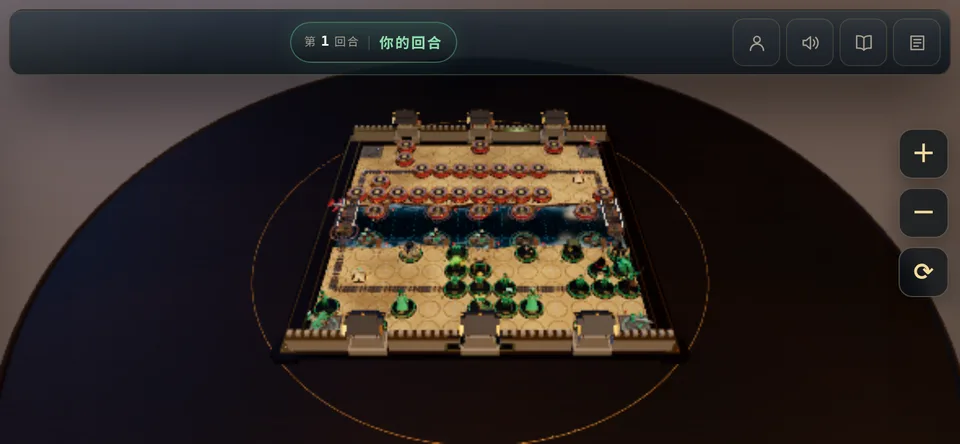
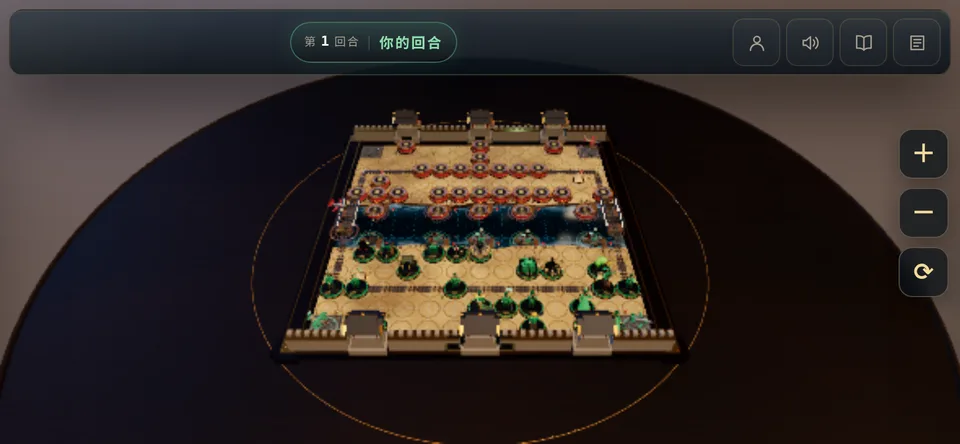
fix(mobile): 鏡頭工具列選棋時自動收起（保持棋盤最大化與點擊不被遮擋）

diff --git a/src/main.js b/src/main.js
@@ -291,6 +291,7 @@ function selectDeployPiece(pieceKey) {
   if (!piece) return;
   app.selectedDeployKey = pieceKey;
   app.view.setSelected(`${PLAYER_SIDE}:${pieceKey}`);
+  updateMobileTools(false);
   if (typeof app.view.setDeployMode === 'function') {
     app.view.setDeployMode(true, {
       side: PLAYER_SIDE,
@@ -371,6 +372,7 @@ function onNodePickDuringSetup(nodeId) {
   app.playerPlacements.push({ pieceKey, nodeId });
   app.selectedDeployKey = null;
   app.view.setSelected(null);
+  updateMobileTools();
   syncDeployView();
   refreshDeployPanel();
 
@@ -390,6 +392,7 @@ function autoDeployPlayer() {
   app.playerPlacements = placements.map((p) => ({ ...p }));
   app.selectedDeployKey = null;
   app.view.setSelected(null);
+  updateMobileTools();
   syncDeployView();
   refreshDeployPanel();
   toast('已自動佈陣，可直接開始戰鬥，或點棋子調整。', 'ok');
@@ -556,6 +559,7 @@ function computePublicInfo(view) {
 function waitForPlayerAction(token) {
   refreshGameView();
   app.selectedUid = null;
+  updateMobileTools();
   app.view.setInteractive(true);
   app.view.clearHighlights();
   app.view.setSelected(null);
@@ -588,6 +592,7 @@ function onPiecePick(uid) {
   if (!piece.alive) { clearSelection(); return; }
   app.selectedUid = uid;
   app.view.setSelected(uid);
+  updateMobileTools(false);
   const actions = (app.game.getActionsForPiece && app.game.getActionsForPiece(PLAYER_SIDE, uid)) || [];
   // 若引擎沒提供 getActionsForPiece，退回 getLegalActions 過濾
   const list = actions.length ? actions : (app.game.getLegalActions(PLAYER_SIDE) || []).filter((a) => a.pieceUid === uid);
@@ -625,6 +630,7 @@ function clearSelection() {
   app.selectedUid = null;
   app.view.setSelected(null);
   app.view.clearHighlights();
+  updateMobileTools();
   if (app.ui && typeof app.ui.setSelectedPiece === 'function') app.ui.setSelectedPiece(null);
 }
 
@@ -677,6 +683,7 @@ async function performPlayerAction(action) {
     toast('行動執行錯誤，請重試。', 'error');
   } finally {
     app.busy = false;
+    updateMobileTools();
     if (resolve) resolve();
   }
 }
@@ -967,14 +974,21 @@ function setupMobileTools() {
   app.mobileTools = wrap;
 }
 
+/** 是否正處於「已選棋、等待點棋盤」狀態（此時收起浮動工具列避免遮擋） */
+function isAwaitingBoardTap() {
+  if (app.phase === 'setup') return !!app.selectedDeployKey;
+  if (app.phase === 'play') return !!app.selectedUid;
+  return false;
+}
+
 function updateMobileTools(show) {
   const el = app.mobileTools || document.getElementById('mobile-tools');
   if (!el) return;
   let visible;
   if (show === undefined) {
-    visible = app.isCoarse && !app.modalOpen && (app.phase === 'setup' || app.phase === 'play');
+    visible = app.isCoarse && !app.modalOpen && (app.phase === 'setup' || app.phase === 'play') && !isAwaitingBoardTap();
   } else {
-    visible = !!show && app.isCoarse;
+    visible = !!show && app.isCoarse && !isAwaitingBoardTap();
   }
   el.classList.toggle('is-visible', visible);
   scheduleInsets(140);
@@ -1015,11 +1029,8 @@ function computeInsets() {
   const H = window.innerHeight || 600;
   let top = 6;
   let bottom = 6;
-  let left = 6;
-  let right = 6;
-  // 右側浮動鏡頭工具（44px 寬 + 安全距）不可覆蓋棋盤，否則會吃掉點擊
-  const toolsEl = app.mobileTools || document.getElementById('mobile-tools');
-  if (toolsEl && toolsEl.classList.contains('is-visible')) right = Math.max(right, 58);
+  const left = 6;
+  const right = 6;
   if (app.phase === 'setup') {
     const tray = document.querySelector('.setup__tray');
     if (tray) {
@@ -1123,7 +1134,7 @@ function escapeHtml(s) {
 function bindGlobalKeys() {
   window.addEventListener('keydown', (e) => {
     if (e.key === 'Escape') {
-      if (app.phase === 'setup') { app.selectedDeployKey = null; app.view.clearHighlights(); }
+      if (app.phase === 'setup') { app.selectedDeployKey = null; app.view.clearHighlights(); updateMobileTools(); }
       else if (app.phase === 'play') clearSelection();
     }
     if (e.key === 'r' && e.ctrlKey) return;

diff --git a/README.md b/README.md
@@ -54,7 +54,7 @@ three.js 已內附於 `vendor/three/`，完全離線可玩。
 - **動態安全區取景**：3D 鏡頭會依 top bar／佈陣托盤／底部資訊卡的實際高度自動取景，
   棋盤（含南北城牆）完整落在可見區內；旋轉裝置或改變視窗大小會重新計算。
 - **觸控優化**：觸控點擊容錯放大（棋子與棋盤格都有吸附容錯）、拖曳旋轉不會誤觸，
-  支援雙指縮放，右側另有 **＋／－／⟳** 浮動鏡頭按鈕。
+  支援雙指縮放，右側另有 **＋／－／⟳** 浮動鏡頭按鈕（選棋時自動收起避免遮擋棋盤）。
 - **手機畫質**：自動使用 `medium` 畫質（關閉陰影、降低 bloom 與像素比）以維持流暢。
 - **PWA**：可「加到主畫面」以獨立全螢幕 App 開啟（`manifest.webmanifest` + icons）。
 - 多種小螢幕 UI：對戰 HUD 濃縮、抽屜式戰況／日誌、選中棋子資訊卡緊湊版、
